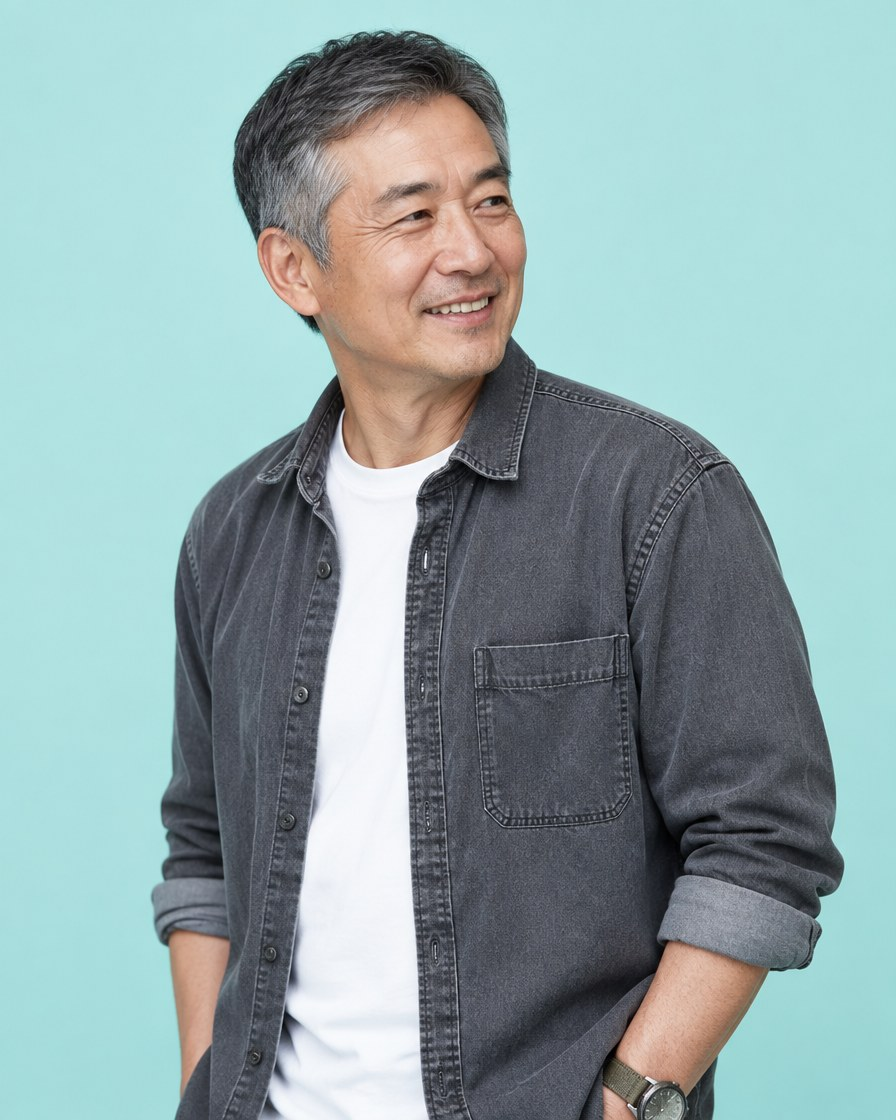
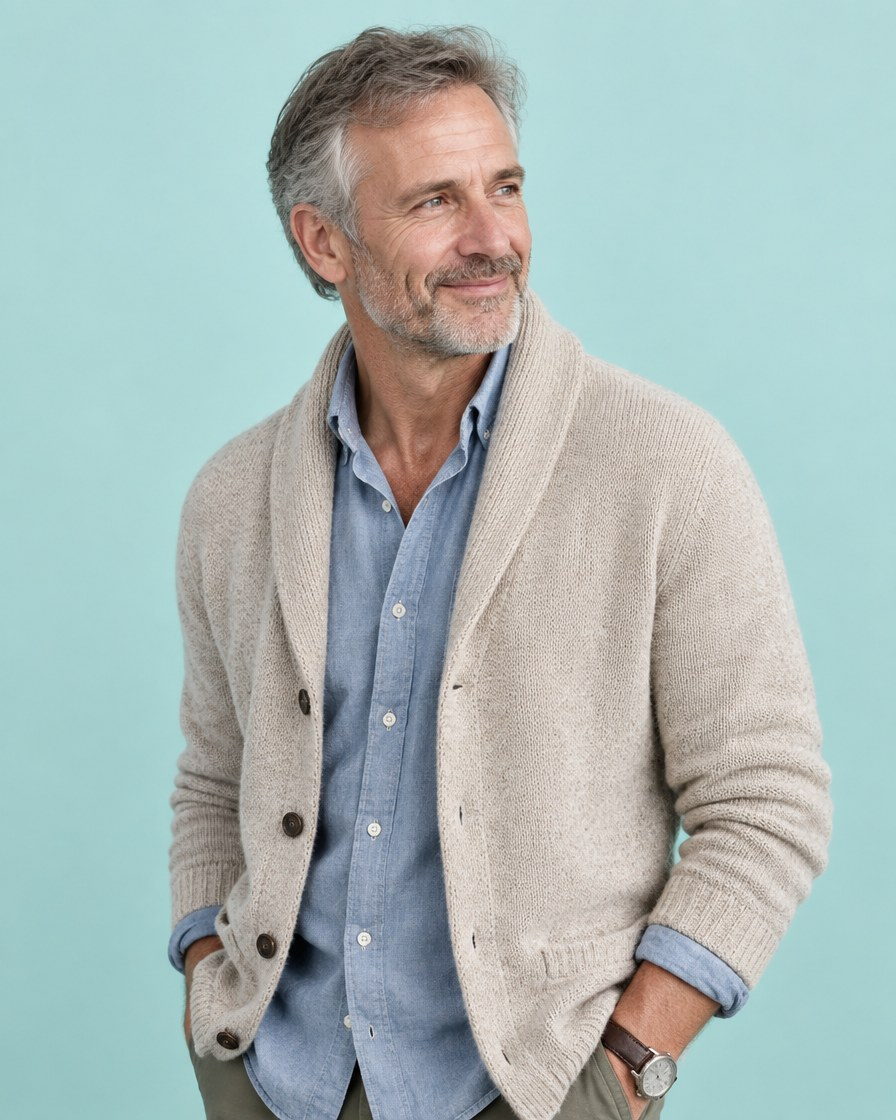
The portrait wall had no Caucasian face on it (v2.16.2 → v2.16.3)
Six portraits: Korean, Japanese, Malay, Black, Indian, Chinese. Right that APAC
leads — nine of ten offices are in Asia — but the firm has a US worldwide HQ, and
a wall of six with nobody white reads as an oversight rather than a choice.

Swapped the Advisor. It was the third East Asian portrait in a row, so the change
also loosens that clustering while keeping the APAC majority and the 3/3 gender
balance. Same aqua backdrop; wardrobe repeats none of the other five (heathered
oatmeal shawl-collar cardigan over chambray).

Principle, since this set will be edited again: cast the room the agency actually
is — APAC-weighted because the offices are, but not exclusively, and never so
tidily balanced that it looks arranged.

diff --git a/CHANGELOG.md b/CHANGELOG.md
@@ -4,6 +4,24 @@ Everything that's changed in the Hoffman design system, newest first. The system
 really lives in the Claude Design project
 (`d10f7f7f-3158-4438-9664-46d071bea8ff`) — this repo is the public copy of it.
 
+## 2026-09-17 — The portrait wall had no Caucasian face on it (v2.16.2 → v2.16.3)
+
+Six storyteller portraits: Korean, Japanese, Malay, Black, Indian, Chinese. A good
+spread, and right that APAC leads — nine of the ten offices are in Asia. But the
+firm has a **US worldwide HQ**, and a wall of six with nobody white does not read as
+the global team; it reads as an oversight, which is worse than either extreme.
+
+**The Advisor swapped.** It was the third East Asian portrait in a row of six, so
+the change also loosens that clustering while keeping the APAC majority intact and
+the 3/3 gender balance unchanged. Same aqua backdrop, new wardrobe that repeats
+none of the other five: a heathered oatmeal shawl-collar cardigan over chambray.
+
+Worth stating as the principle, since the set will get edited again: **cast the
+room the agency actually is.** APAC-weighted because the offices are, but not
+exclusively so, and never so tidily balanced that it looks arranged.
+
+Patch — one portrait, so the wall reads as a global team.
+
 ## 2026-09-17 — Four counts that had quietly gone stale (v2.16.1 → v2.16.2)
 
 Found by sweeping for them rather than by reading, which is the only way these ever

diff --git a/README.md b/README.md
@@ -4,7 +4,7 @@
   <img src="./assets/readme/hero.svg" width="100%" alt="The Hoffman Agency Design System — brand tokens, 48 slide layouts, and the rules an LLM needs to build on-brand.">
 </p>
 
-**Version 2.16.2** · [full history in `CHANGELOG.md`](CHANGELOG.md) · latest: patch — four stale counts. The deck's own card advertised **58 slides** when it has 66 (in both builds and the generated manifest), and this README described `house-style/` as 12 examples (it holds 36) and 35 photographs (there are 40). Fourth release running to carry one of these, so the sweep is now part of shipping. Versioned with [SemVer](https://semver.org); the canonical number lives in `package.json`.
+**Version 2.16.3** · [full history in `CHANGELOG.md`](CHANGELOG.md) · latest: patch — the storyteller portrait wall had **no Caucasian face** on it. Right that APAC leads (nine of ten offices are in Asia), wrong for a firm with a US worldwide HQ. The Advisor swapped — it was also the third East Asian portrait in a row, so the change loosens that clustering while keeping the APAC majority and the gender balance. Versioned with [SemVer](https://semver.org); the canonical number lives in `package.json`.
 
 An integrated communications agency for tech brands. Hoffman helps companies turn complex business challenges into clear, compelling stories across earned, digital, social, content, creative and AI-enabled communications.
 
